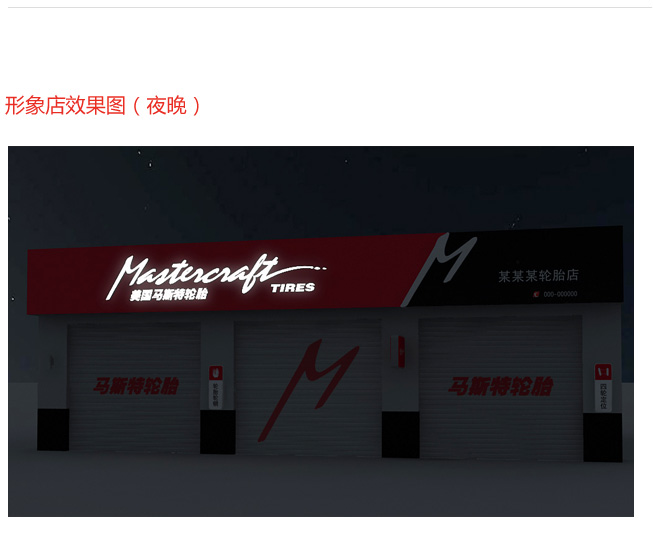
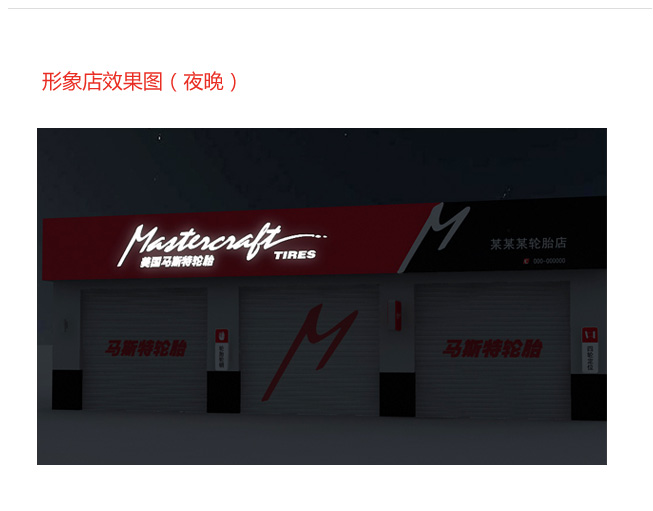
img

diff --git a/public/stores1.html b/public/stores1.html
@@ -105,7 +105,7 @@
 <div class="st_con">
 <img src="images/st_pic1.jpg" width="653" height="441" />
 <img src="images/st_pic2.jpg" width="653" height="598" />
-<img src="images/st_pic3.jpg" width="653" height="549" />
+<img src="images/st_pic3.jpg" width="653" height="511" />
 
 </div>
 
